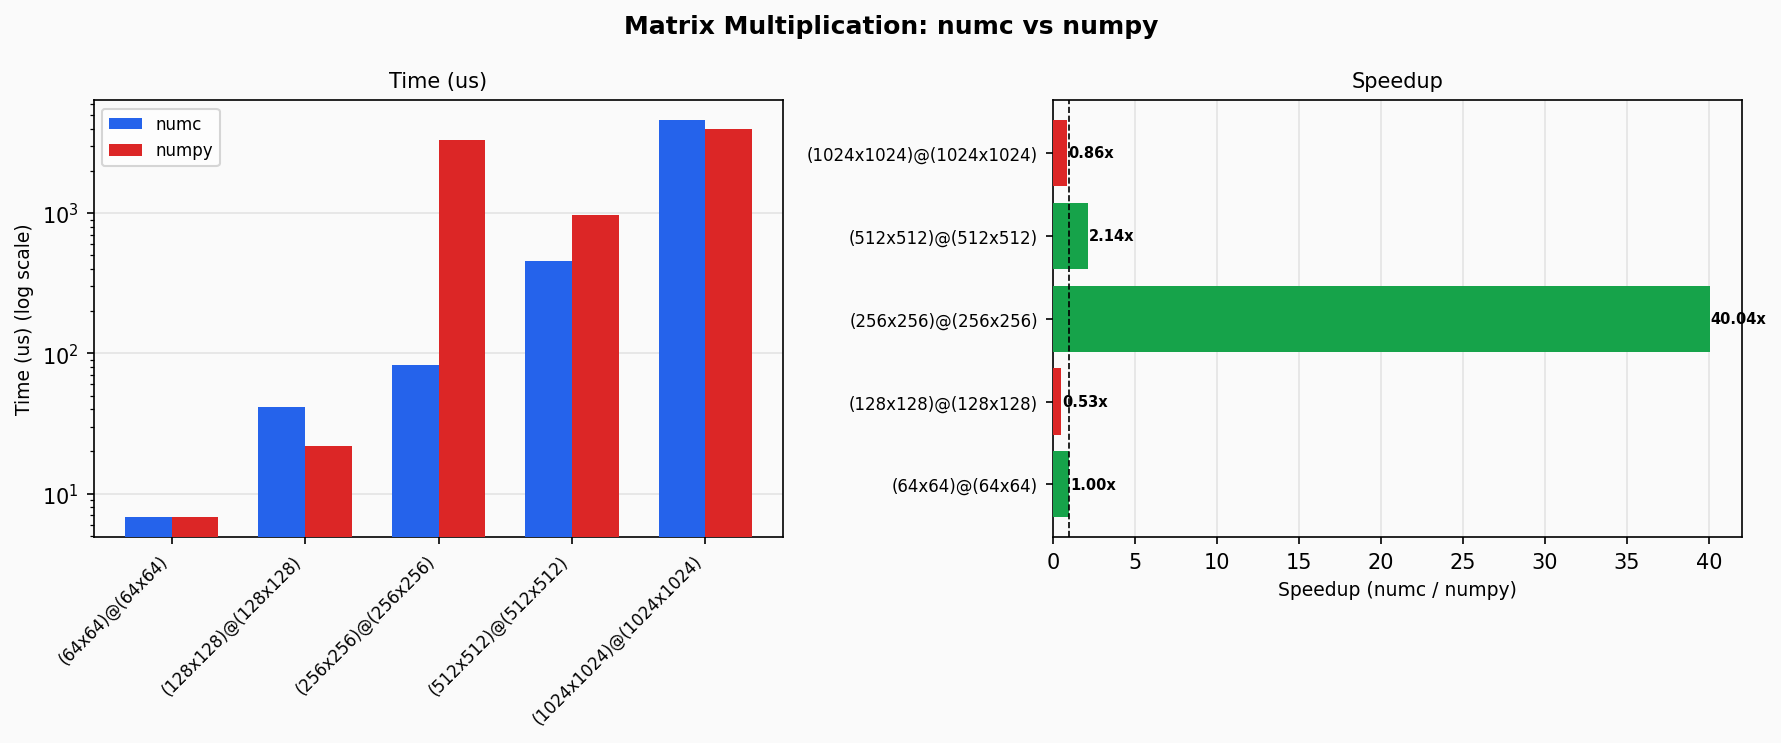
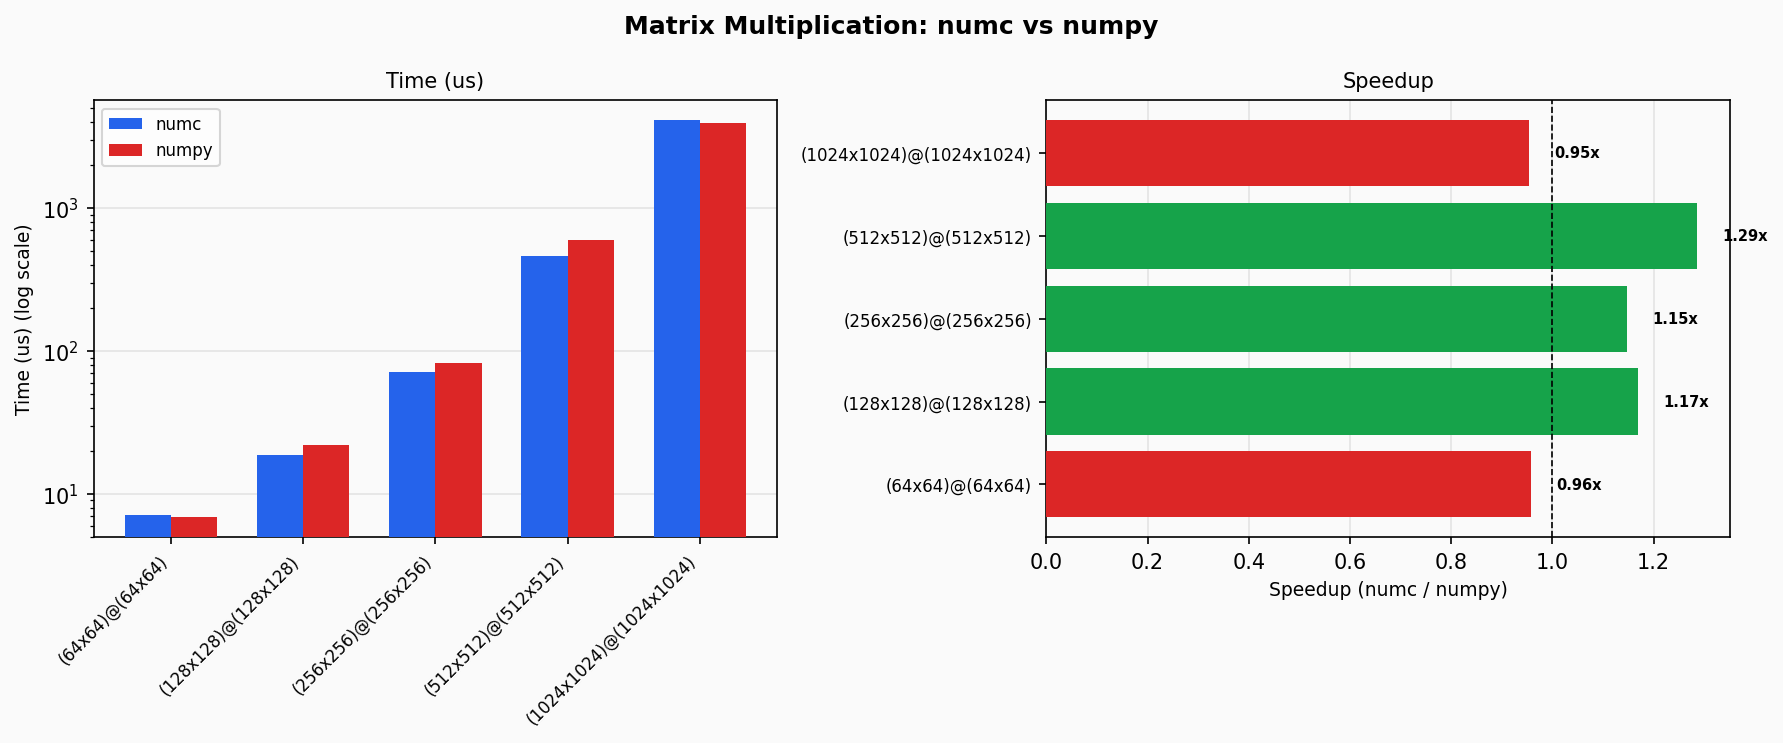
perf: improve avx2 packing tails and small-gemm dispatch

diff --git a/bench/numc/bench_matmul_csv.c b/bench/numc/bench_matmul_csv.c
@@ -1,0 +1,99 @@
+/*
+ * bench/numc/bench_matmul_csv.c — Matmul-only CSV benchmark
+ *
+ * Outputs CSV to stdout (same format as bench.c, but matmul only).
+ * Used by: ./run.sh bench matmul
+ */
+
+#include <numc/numc.h>
+#include <stdio.h>
+#include <string.h>
+#include <time.h>
+
+static double time_us(void) {
+  struct timespec ts;
+  clock_gettime(CLOCK_MONOTONIC, &ts);
+  return ts.tv_sec * 1e6 + ts.tv_nsec / 1e3;
+}
+
+static const char *dtype_name(NumcDType dt) {
+  static const char *names[] = {
+      [NUMC_DTYPE_INT8] = "int8",       [NUMC_DTYPE_INT16] = "int16",
+      [NUMC_DTYPE_INT32] = "int32",     [NUMC_DTYPE_INT64] = "int64",
+      [NUMC_DTYPE_UINT8] = "uint8",     [NUMC_DTYPE_UINT16] = "uint16",
+      [NUMC_DTYPE_UINT32] = "uint32",   [NUMC_DTYPE_UINT64] = "uint64",
+      [NUMC_DTYPE_FLOAT32] = "float32", [NUMC_DTYPE_FLOAT64] = "float64",
+  };
+  return names[dt];
+}
+
+static void csv(const char *cat, const char *op, const char *dt, size_t size,
+                const char *shape, double us) {
+  printf("numc,%s,%s,%s,%zu,%s,%.4f,%.4f\n", cat, op, dt, size, shape, us,
+         size / us);
+}
+
+static void bench_matmul(size_t M, size_t K, size_t N, int warmup, int iters) {
+#ifdef _OPENMP
+#pragma omp parallel
+  { (void)0; }
+#endif
+  NumcDType dtypes[] = {
+      NUMC_DTYPE_FLOAT32, NUMC_DTYPE_FLOAT64, NUMC_DTYPE_INT8,
+      NUMC_DTYPE_INT16,   NUMC_DTYPE_INT32,   NUMC_DTYPE_INT64,
+      NUMC_DTYPE_UINT8,   NUMC_DTYPE_UINT16,  NUMC_DTYPE_UINT32,
+      NUMC_DTYPE_UINT64,
+  };
+
+  for (int d = 0; d < 10; d++) {
+    NumcDType dt = dtypes[d];
+    NumcCtx *ctx = numc_ctx_create();
+    size_t sha[] = {M, K}, shb[] = {K, N}, sho[] = {M, N};
+    char val[8] = {0};
+    switch (dt) {
+    case NUMC_DTYPE_FLOAT32:
+      *(float *)val = 1.0f;
+      break;
+    case NUMC_DTYPE_FLOAT64:
+      *(double *)val = 1.0;
+      break;
+    default:
+      *(int32_t *)val = 2;
+      break;
+    }
+
+    NumcArray *a = numc_array_fill(ctx, sha, 2, dt, val);
+    NumcArray *b = numc_array_fill(ctx, shb, 2, dt, val);
+    NumcArray *out = numc_array_zeros(ctx, sho, 2, dt);
+    if (!a || !b || !out) {
+      numc_ctx_free(ctx);
+      continue;
+    }
+
+    for (int i = 0; i < warmup; i++)
+      numc_matmul(a, b, out);
+    double t0 = time_us();
+    for (int i = 0; i < iters; i++)
+      numc_matmul(a, b, out);
+    double us = (time_us() - t0) / iters;
+
+    size_t total = M * N;
+    char shape_str[64];
+    snprintf(shape_str, sizeof(shape_str), "(%zux%zu)@(%zux%zu)", M, K, K, N);
+    csv("matmul", "matmul", dtype_name(dt), total, shape_str, us);
+    numc_ctx_free(ctx);
+  }
+}
+
+int main(void) {
+  printf(
+      "library,category,operation,dtype,size,shape,time_us,throughput_mops\n");
+
+  bench_matmul(64, 64, 64, 50, 200);
+  bench_matmul(128, 128, 128, 50, 50);
+  bench_matmul(256, 256, 256, 50, 20);
+  bench_matmul(512, 512, 512, 50, 10);
+  bench_matmul(1024, 1024, 1024, 10, 3);
+
+  return 0;
+}

diff --git a/bench/graph/plot.py b/bench/graph/plot.py
@@ -250,12 +250,24 @@ def plot_all_ops_speedup(merged):
 # ── Main ──────────────────────────────────────────────────────────────
 
 def main():
+    # Optional --filter flag (e.g., --filter matmul)
+    cat_filter = None
+    if "--filter" in sys.argv:
+        idx = sys.argv.index("--filter")
+        if idx + 1 < len(sys.argv):
+            cat_filter = sys.argv[idx + 1]
+
     print("Loading benchmark CSVs...")
     numc, numpy = load()
     merged = merge(numc, numpy)
     print(f"Merged: {len(merged)} rows\n")
 
     print("Generating graphs:")
+
+    if cat_filter == "matmul":
+        plot_matmul(merged)
+        print(f"\nDone! Matmul chart saved to {OUT_DIR}/")
+        return
 
     # Overview
     plot_overview(merged)

diff --git a/bench/compare.py b/bench/compare.py
@@ -43,11 +43,20 @@ def main():
         print("Missing CSV files. Run ./run.sh bench first.", file=sys.stderr)
         sys.exit(1)
 
+    # Optional category filter (e.g., --filter matmul)
+    cat_filter = None
+    if "--filter" in sys.argv:
+        idx = sys.argv.index("--filter")
+        if idx + 1 < len(sys.argv):
+            cat_filter = sys.argv[idx + 1]
+
     numc = load_csv(NUMC_CSV)
     numpy = load_csv(NUMPY_CSV)
 
     # Match keys present in both
     common = sorted(set(numc) & set(numpy))
+    if cat_filter:
+        common = [k for k in common if k[0] == cat_filter]
     if not common:
         print("No matching benchmarks found.", file=sys.stderr)
         sys.exit(1)

diff --git a/bench/numpy/bench.py b/bench/numpy/bench.py
@@ -400,6 +400,15 @@ def bench_random(name, size):
 def main():
     print("library,category,operation,dtype,size,shape,time_us,throughput_mops")
 
+    # Optional --matmul flag for matmul-only benchmark
+    if "--matmul" in sys.argv:
+        bench_matmul(64, 64, 64, 50, 200)
+        bench_matmul(128, 128, 128, 50, 50)
+        bench_matmul(256, 256, 256, 50, 20)
+        bench_matmul(512, 512, 512, 10, 5)
+        bench_matmul(1024, 1024, 1024, 5, 3)
+        return
+
     # Binary element-wise
     bench_binary("add", np.add, SIZE)
     bench_binary("sub", np.subtract, SIZE)
